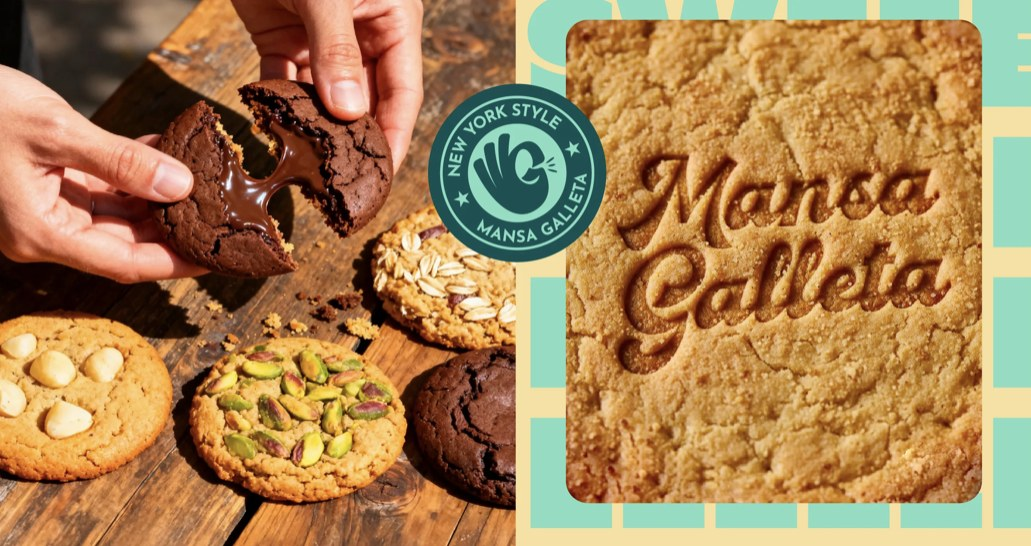
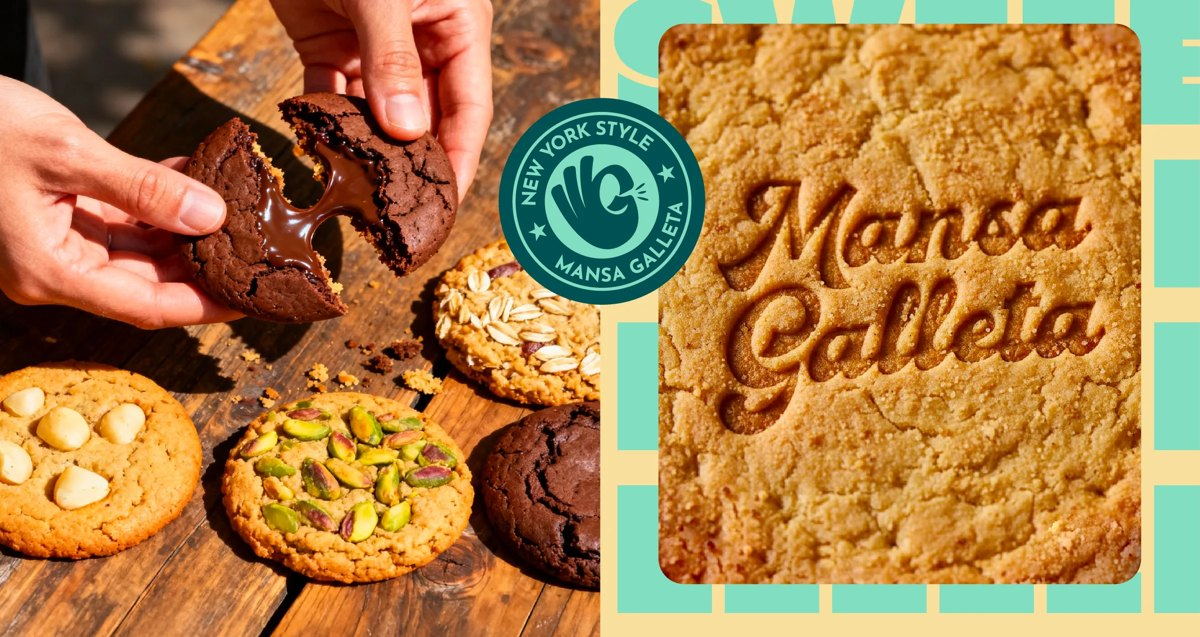
Mansa Galleta: replace screenshots with original images
Claude-Session: https://claude.ai/code/session_01Pavqqw2CeyPkMS37JobPaC

diff --git a/choque/proyectos/mansa-galleta.html b/choque/proyectos/mansa-galleta.html
@@ -18,8 +18,8 @@
 <meta property="og:description" content="Mansa Galleta: ¡manso sabor, mansa actitud! Identidad visual, lettering y packaging para galletas estilo New York.">
 <meta property="og:url" content="https://wearechoque.lat/proyectos/mansa-galleta.html">
 <meta property="og:image" content="https://wearechoque.lat/img/proyectos/mansa-galleta/hero.jpg">
-<meta property="og:image:width" content="1031">
-<meta property="og:image:height" content="546">
+<meta property="og:image:width" content="1200">
+<meta property="og:image:height" content="637">
 <meta name="twitter:card" content="summary_large_image">
 <link rel="apple-touch-icon" href="../img/marca/apple-touch-icon.png">
 <script type="application/ld+json">
@@ -93,7 +93,7 @@
 
     <div class="wrap">
       <div class="media reveal">
-        <img src="../img/proyectos/mansa-galleta/hero.jpg" alt="Galletas estilo Nueva York sobre madera junto al sello “New York Style” y una galleta con el lettering Mansa Galleta grabado" data-en-alt="New York–style cookies on wood next to the “New York Style” seal and a cookie stamped with the Mansa Galleta lettering" width="1031" height="546">
+        <img src="../img/proyectos/mansa-galleta/hero.webp" alt="Galletas estilo Nueva York sobre madera junto al sello “New York Style” y una galleta con el lettering Mansa Galleta grabado" data-en-alt="New York–style cookies on wood next to the “New York Style” seal and a cookie stamped with the Mansa Galleta lettering" width="2402" height="1275">
       </div>
     </div>
 
@@ -117,12 +117,12 @@
     </div>
 
     <div class="gallery wrap">
-      <div class="media reveal"><img src="../img/proyectos/mansa-galleta/logo.jpg" alt="Lettering Mansa Galleta en verde oscuro sobre menta junto a una M gigante" data-en-alt="Mansa Galleta lettering in dark green on mint next to a giant M" width="1031" height="576" loading="lazy"></div>
+      <div class="media reveal"><img src="../img/proyectos/mansa-galleta/logo.webp" alt="Lettering Mansa Galleta en verde oscuro sobre menta junto a una M gigante" data-en-alt="Mansa Galleta lettering in dark green on mint next to a giant M" width="2404" height="1356" loading="lazy"></div>
       <div class="pair">
-        <div class="media reveal"><img src="../img/proyectos/mansa-galleta/matcha.jpg" alt="Galletas de matcha con chispas de chocolate blanco apiladas" data-en-alt="Stacked matcha cookies with white chocolate chips" width="1031" height="1030" loading="lazy"></div>
-        <div class="media reveal" style="--i:1"><img src="../img/proyectos/mansa-galleta/chocolate.jpg" alt="Galleta de chocolate bañada en salsa de chocolate con trozos de brownie sobre fondo amarillo" data-en-alt="Chocolate cookie covered in chocolate sauce with brownie chunks on yellow" width="1031" height="1030" loading="lazy"></div>
+        <div class="media reveal"><img src="../img/proyectos/mansa-galleta/matcha.webp" alt="Galletas de matcha con chispas de chocolate blanco apiladas" data-en-alt="Stacked matcha cookies with white chocolate chips" width="1602" height="1601" loading="lazy"></div>
+        <div class="media reveal" style="--i:1"><img src="../img/proyectos/mansa-galleta/chocolate.webp" alt="Galleta de chocolate bañada en salsa de chocolate con trozos de brownie sobre fondo amarillo" data-en-alt="Chocolate cookie covered in chocolate sauce with brownie chunks on yellow" width="1602" height="1601" loading="lazy"></div>
       </div>
-      <div class="media reveal"><img src="../img/proyectos/mansa-galleta/bolsa.jpg" alt="Empaque verde “Maaaansas galletas al estilo NY” con una galleta de merengue tostado contra el cielo" data-en-alt="Green “Maaaansas galletas al estilo NY” pouch with a toasted-meringue cookie against the sky" width="1031" height="577" loading="lazy"></div>
+      <div class="media reveal"><img src="../img/proyectos/mansa-galleta/bolsa.webp" alt="Empaque verde “Maaaansas galletas al estilo NY” con una galleta de merengue tostado contra el cielo" data-en-alt="Green “Maaaansas galletas al estilo NY” pouch with a toasted-meringue cookie against the sky" width="2400" height="1351" loading="lazy"></div>
     </div>
 
     <div class="statement wrap">
@@ -131,10 +131,10 @@
 
     <div class="gallery wrap">
       <div class="pair">
-        <div class="media reveal"><img src="../img/proyectos/mansa-galleta/galletas.jpg" alt="Nueve galletas de distintos sabores en una cuadrícula sobre azulejos color menta" data-en-alt="Nine cookies in different flavors in a grid on mint tiles" width="1031" height="1030" loading="lazy"></div>
-        <div class="media reveal" style="--i:1"><img src="../img/proyectos/mansa-galleta/sello.jpg" alt="Símbolo de Mansa Galleta: una mano haciendo el gesto de “perfecto”, en verde oscuro sobre amarillo" data-en-alt="Mansa Galleta symbol: a hand making the “perfect” sign, dark green on yellow" width="1031" height="1029" loading="lazy"></div>
+        <div class="media reveal"><img src="../img/proyectos/mansa-galleta/galletas.webp" alt="Nueve galletas de distintos sabores en una cuadrícula sobre azulejos color menta" data-en-alt="Nine cookies in different flavors in a grid on mint tiles" width="1602" height="1601" loading="lazy"></div>
+        <div class="media reveal" style="--i:1"><img src="../img/proyectos/mansa-galleta/sello.webp" alt="Símbolo de Mansa Galleta: una mano haciendo el gesto de “perfecto”, en verde oscuro sobre amarillo" data-en-alt="Mansa Galleta symbol: a hand making the “perfect” sign, dark green on yellow" width="1600" height="1601" loading="lazy"></div>
       </div>
-      <div class="media reveal"><img src="../img/proyectos/mansa-galleta/caja-modelo.jpg" alt="Caja abierta con seis galletas surtidas junto a una mujer comiendo una galleta rodeada de galletas flotando" data-en-alt="Open box of six assorted cookies next to a woman eating a cookie surrounded by floating cookies" width="1031" height="576" loading="lazy"></div>
+      <div class="media reveal"><img src="../img/proyectos/mansa-galleta/caja-modelo.webp" alt="Caja abierta con seis galletas surtidas junto a una mujer comiendo una galleta rodeada de galletas flotando" data-en-alt="Open box of six assorted cookies next to a woman eating a cookie surrounded by floating cookies" width="2406" height="1351" loading="lazy"></div>
     </div>
 
     <div class="wrap">

diff --git a/choque/index.html b/choque/index.html
@@ -148,7 +148,7 @@
   <section class="reel wrap" aria-label="Proyectos destacados" data-en-aria="Featured projects">
     <a class="reel-frame media reveal" id="reel" href="proyectos/chavela.html">
       <img class="on" src="img/proyectos/chavela/fachada.webp" style="object-position: 50% 15%" alt="" data-name="Chavela" data-href="proyectos/chavela.html" width="1648" height="1649">
-      <img src="img/proyectos/mansa-galleta/hero.jpg" alt="" data-name="Mansa Galleta" data-href="proyectos/mansa-galleta.html" width="1031" height="546">
+      <img src="img/proyectos/mansa-galleta/hero.webp" alt="" data-name="Mansa Galleta" data-href="proyectos/mansa-galleta.html" width="2402" height="1275">
       <img src="img/proyectos/fondas-de-colon/patron.jpg" alt="" data-name="Fondas de Colón" data-href="proyectos/fondas-de-colon.html" width="1031" height="684">
       <img src="img/proyectos/ricketts-lab/sonrisa.jpg" style="object-position: 50% 20%" alt="" data-name="Ricketts Lab" data-href="proyectos/ricketts-lab.html" width="1031" height="1032">
       <img src="img/proyectos/sultavolo/patron.jpg" alt="" data-name="Sultavolo" data-href="proyectos/sultavolo.html" width="1031" height="577">
@@ -206,7 +206,7 @@
         <a href="proyectos/mansa-galleta.html">
           <div class="media reveal">
             <span class="tag">Packaging</span>
-            <img src="img/proyectos/mansa-galleta/portada.jpg" alt="Galleta estilo Nueva York con merengue tostado asomando de un empaque verde que dice “Maaaansas galletas al estilo NY”" data-en-alt="New York–style cookie with toasted meringue peeking out of a green pouch that reads “Maaaansas galletas al estilo NY”" width="1031" height="1263" loading="lazy">
+            <img src="img/proyectos/mansa-galleta/portada.webp" alt="Galleta estilo Nueva York con merengue tostado asomando de un empaque verde que dice “Maaaansas galletas al estilo NY”" data-en-alt="New York–style cookie with toasted meringue peeking out of a green pouch that reads “Maaaansas galletas al estilo NY”" width="1081" height="1351" loading="lazy">
             <span class="case-link" data-en="View case <svg aria-hidden=&quot;true&quot;><use href=&quot;#arrow-r&quot;/></svg>">Ver caso <svg aria-hidden="true"><use href="#arrow-r"/></svg></span>
           </div>
           <p class="name">Mansa Galleta</p>
